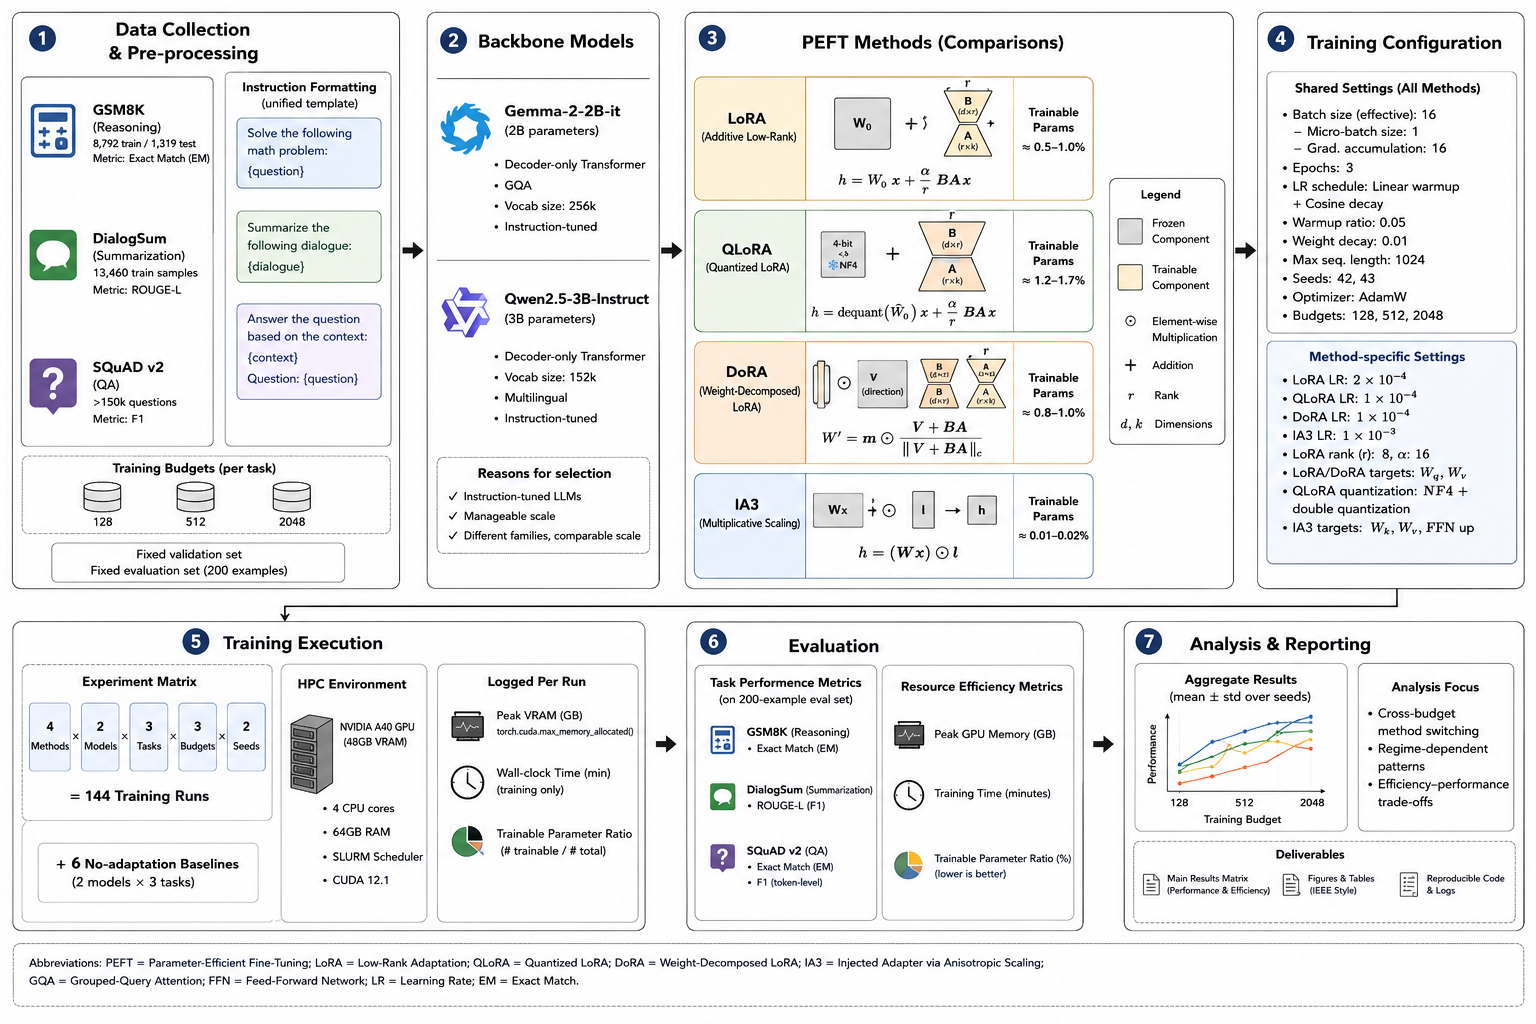
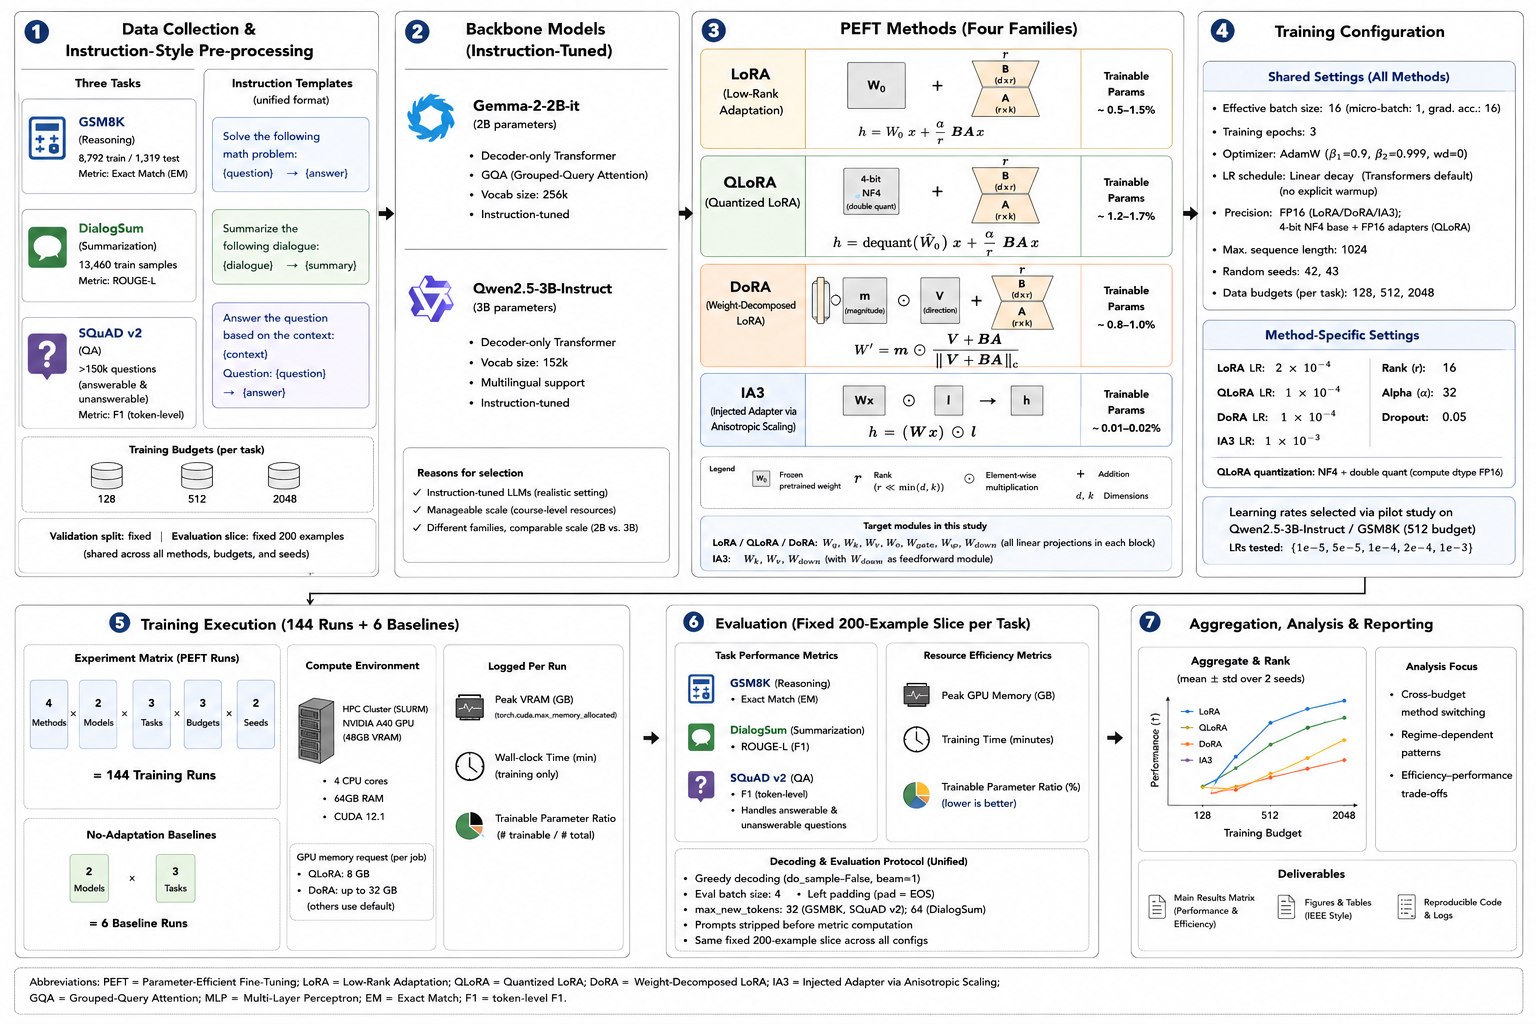
add report

Changed region(s): [[0.0, 0.0, 1.0, 1.0]]

diff --git a/Final Report/main0509.tex b/Final Report/main0509.tex
@@ -57,7 +57,7 @@ What is still missing in much of the literature is not evidence that PEFT works,
 
 \section{Methodology}
 
-Figure~\ref{fig:workflow} gives a one-page overview of the full pipeline used in this study. We treat the methodology as seven coordinated stages: (1) data collection and instruction-style pre-processing for the three target tasks; (2) selection of two medium-sized instruction-tuned backbones; (3) implementation of four PEFT families with their characteristic update structures; (4) a shared training configuration with method-specific knobs; (5) a $4 \times 2 \times 3 \times 3 \times 2 = 144$ training matrix plus six no-adaptation baselines, all logged with VRAM, wall-clock time, and trainable-parameter ratio; (6) task-performance and efficiency evaluation on a fixed 200-example evaluation slice per task; and (7) aggregation, ranking, and trade-off analysis. The subsections below describe each stage in detail.
+ Overview of the full pipeline used in this study is shown in Figure~\ref{fig:workflow}. We treat the methodology as seven coordinated stages: (1) data collection and instruction-style pre-processing for the three target tasks; (2) selection of two medium-sized instruction-tuned backbones; (3) implementation of four PEFT families with their characteristic update structures; (4) a shared training configuration with method-specific knobs; (5) a $4 \times 2 \times 3 \times 3 \times 2 = 144$ training matrix plus six no-adaptation baselines, all logged with VRAM, wall-clock time, and trainable-parameter ratio; (6) task-performance and efficiency evaluation on a fixed 200-example evaluation slice per task; and (7) aggregation, ranking, and trade-off analysis. The subsections below describe each stage in detail.
 
 \begin{figure}[H]
 \centering
@@ -229,7 +229,7 @@ These three metrics capture the key dimensions of the efficiency--performance tr
 We evaluate each PEFT configuration from two complementary perspectives: task performance and resource efficiency. All task metrics are computed on a fixed 200-example evaluation subset that is held out from training and shared across all methods to ensure direct comparability.
 
 \paragraph{Task performance metrics.}
-For GSM8K, we report Exact Match (EM), which requires the generated answer to exactly match the ground-truth numeric answer after normalization (stripping whitespace, commas, and currency symbols). For DialogSum, we report ROUGE-L \cite{lin2004rouge}, the F1 score based on the longest common subsequence between the generated summary and the reference summary, which captures both precision and recall of salient content. For SQuAD v2, we report both EM and token-level F1 following the official evaluation script, which accounts for both answerable and unanswerable questions by assigning zero credit when the model fails to predict ``no answer'' for unanswerable instances.
+For GSM8K, we report Exact Match (EM), which requires the generated answer to exactly match the ground-truth numeric answer after normalization (stripping whitespace, commas, and currency symbols). For DialogSum, we report ROUGE-L \cite{lin2004rouge}, the F1 score based on the longest common subsequence between the generated summary and the reference summary, which captures both precision and recall of salient content. For SQuAD v2, we report token-level F1 following the official evaluation script, which accounts for both answerable and unanswerable questions by assigning zero credit when the model fails to predict ``no answer'' for unanswerable instances.
 
 \paragraph{Resource efficiency metrics.}
 We report three resource metrics. Peak GPU memory usage (GB) is the maximum VRAM allocated during training, including model parameters, gradients, and optimizer states. Training wall-clock time (minutes) measures the total time from the start of the first epoch to the end of the last, providing a practical measure of computational cost. Trainable parameter ratio is the fraction of total model parameters that receive gradient updates during training, reflecting the storage overhead of each adapter method.
@@ -703,28 +703,6 @@ Model & Method & 128 & 512 & 2048 \\
  & QLoRA & 0.0947 $\pm$ 0.0003 & 0.0722 $\pm$ 0.0167 & 0.0729 $\pm$ 0.0110 \\
  & DoRA & 0.0971 $\pm$ 0.0013 & 0.0918 $\pm$ 0.0136 & 0.0920 $\pm$ 0.0031 \\
  & IA3 & 0.0918 $\pm$ 0.0010 & 0.0894 $\pm$ 0.0001 & 0.0853 $\pm$ 0.0008 \\
-\bottomrule
-\end{tabular}
-\end{table}
-
-\begin{table}[H]
-\centering
-\small
-\caption{SQuAD v2 EM (mean $\pm$ std over two seeds).}
-\label{tab:appendix_squad_em}
-\begin{tabular}{llccc}
-\toprule
-Model & Method & 128 & 512 & 2048 \\
-\midrule
-\multirow{4}{*}{Gemma-2-2B-it} & LoRA & 0.2225 $\pm$ 0.0460 & 0.5150 $\pm$ 0.0283 & 0.4475 $\pm$ 0.0177 \\
- & QLoRA & 0.3975 $\pm$ 0.0177 & 0.4150 $\pm$ 0.0071 & 0.4075 $\pm$ 0.0318 \\
- & DoRA & 0.3100 $\pm$ 0.0141 & 0.4600 $\pm$ 0.0283 & 0.4750 $\pm$ 0.0283 \\
- & IA3 & 0.4825 $\pm$ 0.0035 & 0.4850 $\pm$ 0.0000 & 0.4625 $\pm$ 0.0035 \\
-\midrule
-\multirow{4}{*}{Qwen2.5-3B-Instruct} & LoRA & 0.0000 $\pm$ 0.0000 & 0.0000 $\pm$ 0.0000 & 0.0000 $\pm$ 0.0000 \\
- & QLoRA & 0.0000 $\pm$ 0.0000 & 0.0000 $\pm$ 0.0000 & 0.0000 $\pm$ 0.0000 \\
- & DoRA & 0.0000 $\pm$ 0.0000 & 0.0000 $\pm$ 0.0000 & 0.0000 $\pm$ 0.0000 \\
- & IA3 & 0.0000 $\pm$ 0.0000 & 0.0000 $\pm$ 0.0000 & 0.0000 $\pm$ 0.0000 \\
 \bottomrule
 \end{tabular}
 \end{table}
